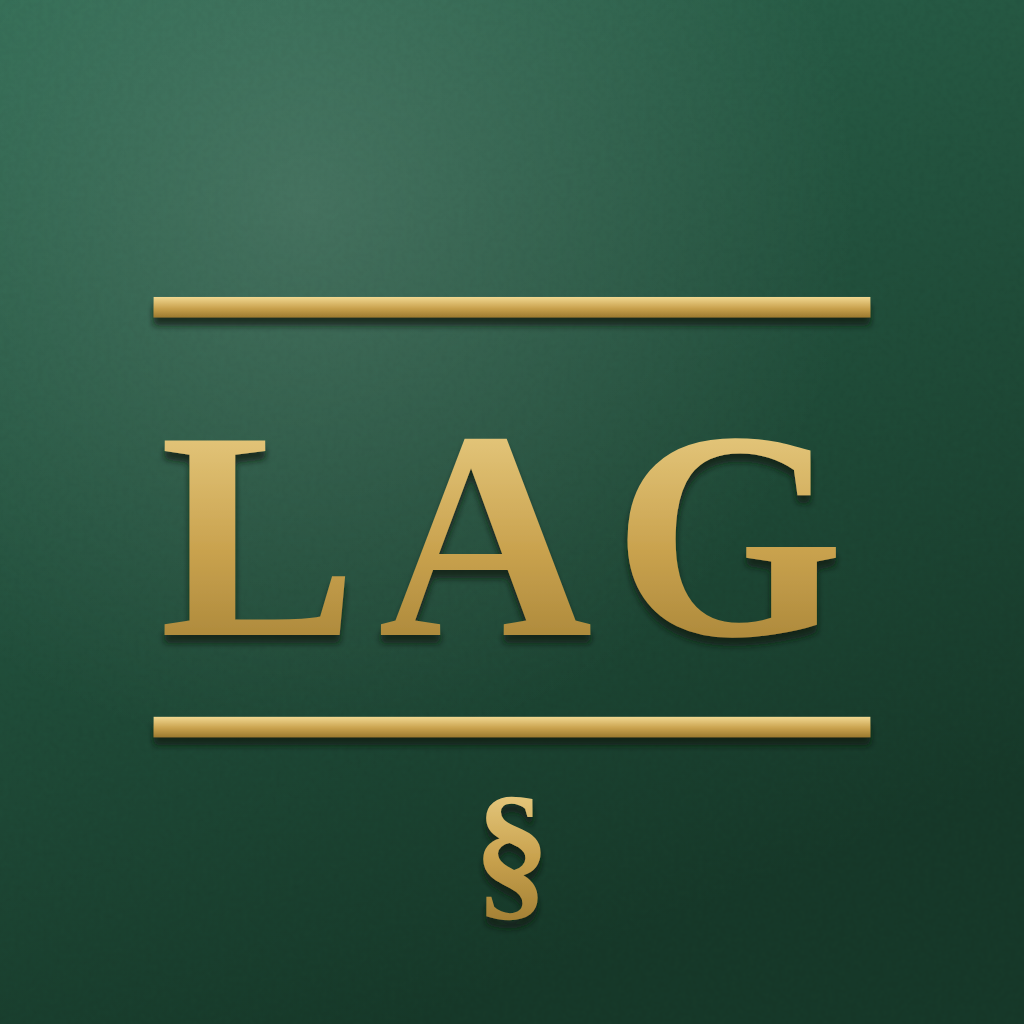
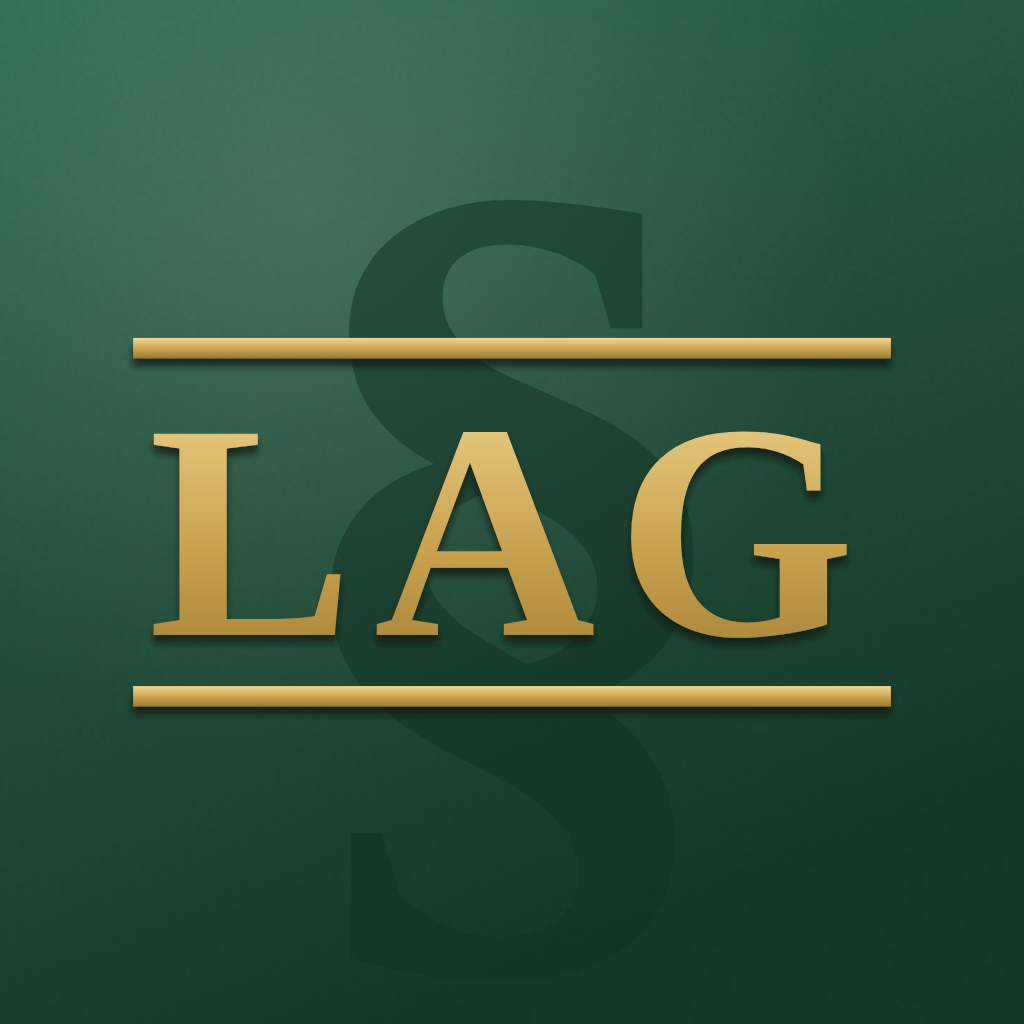
Appikon: variant C (präglat LAG med stort § bakom)
Claude-Session: https://claude.ai/code/session_01BqpPcBWHk1LwFZeL4JoWv4

diff --git a/sw.js b/sw.js
@@ -1,7 +1,7 @@
 // Lagboken 0.8. Allt hämtas från nätet först så att nya versioner och ny lagtext syns direkt;
 // sparade kopior används bara utan internet. Lagtexten ligger i en separat cache som
 // behålls mellan versioner så att nedladdade lagar finns kvar offline.
-const VERSION='lagboken-shell-v08';
+const VERSION='lagboken-shell-v08c';
 const DATA='lagboken-data';
 const CORE=['./','./index.html','./assets/app.css','./assets/app.js','./assets/search-core.js','./assets/legal-links.js','./assets/editorial.js','./assets/law-model.js','./assets/search-index.js','./assets/highlights.js','./assets/toc-model.js','./icon.svg','./icon-180.png','./icon-192.png','./manifest.webmanifest'];
 self.addEventListener('install',event=>event.waitUntil(caches.open(VERSION).then(c=>c.addAll(CORE)).then(()=>self.skipWaiting())));

diff --git a/README.md b/README.md
@@ -67,7 +67,7 @@ Läsaren har en enda innehållsknapp, utan föregående/nästa länkar eller ver
 ## Version 0.8
 - **130 författningar** (tidigare 91): bl.a. utlämningslagen, lagen om europeisk arresteringsorder, lagen om internationell rättslig hjälp i brottmål, lagen om alkoholutandningsprov, djurskydds-, jakt- och säkerhetsskyddslagen, delgivnings-, rättshjälps-, belastningsregister-, narkotikakontroll-, fordons- och passförordningen samt en ny avdelning för civilrätt, arbete och näringsliv (avtalslagen, köplagen, konsumentköplagen, preskriptionslagen, aktiebolagslagen, LAS, arbetsmiljölagen m.fl.).
 - **Kopplingar på lagnivå:** en förordning kopplas till den lag den själv nämner i sina första paragrafer (t.ex. belastningsregisterförordningen → lagen om belastningsregister).
-- **Ny appikon** (präglat ”LAG” i guld på grön pärm). Ta bort appen från hemskärmen och lägg till den igen för att se den.
+- **Ny appikon** (präglat ”LAG” i guld på grön pärm med stort § i präglingen). Ta bort appen från hemskärmen och lägg till den igen för att se den.
 - **Uppdateringar direkt:** appen hämtar alltid senaste versionen när det finns internet och visar ”Ny version – tryck för att uppdatera”. Version och datum för lagdata står under *Inställningar*.
 - **Animationer:** ingen grön blinkning längre. Korta övergångar mellan vyer, menyer som glider upp och kan dras ned, utfällning, märkpennedrag vid markering, platshållare vid laddning. Allt stängs av med iPhones *Reducera rörelse*.
 - **Svep från vänsterkanten** för att gå tillbaka, **textstorlek med reglage**, val av **typsnitt** (rakt eller bok), **Mina genvägar** på startsidan, påminnelse om **säkerhetskopia**, förhandsvisning vid delning av länk och bättre stöd för VoiceOver.
